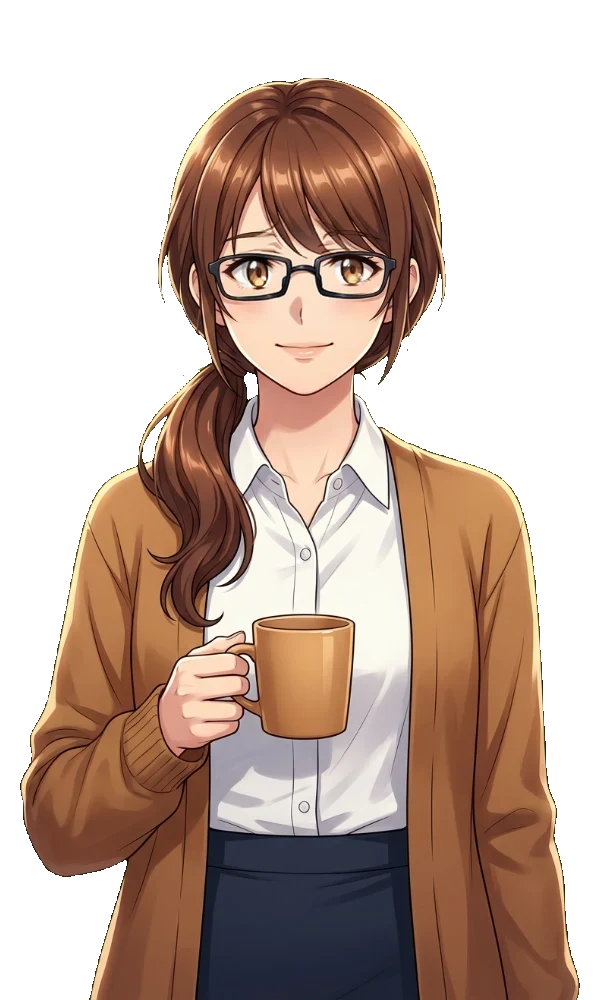
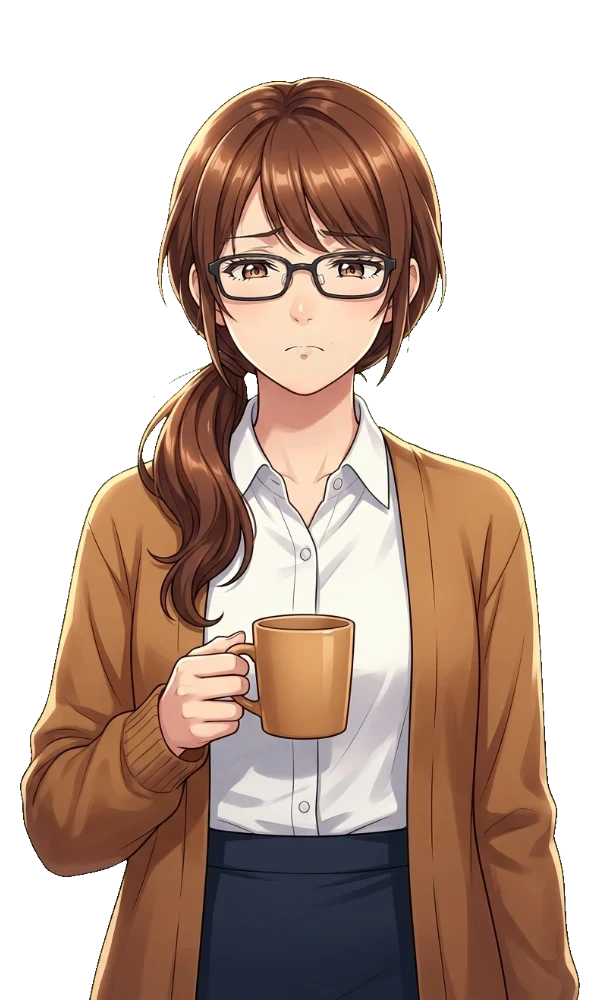
重繪索老師 sad 與 think 表情立繪並補齊製作紀錄

Changed region(s): [[0.36, 0.217, 0.66, 0.372]]

diff --git a/docs/art-requests.md b/docs/art-requests.md
@@ -331,8 +331,8 @@ Image edit. Keep the character IDENTICAL to the reference image: same pose, same
 | Key（manifest） | 輸出檔 | 來源圖建議檔名 | 尺寸 | 劇本 say/show 次數 |
 |---|---|---|---|---|
 | `sensei/smile` 微笑 | `public/art/sensei/smile.webp` | `sensei-smile.png` | 600×1000 RGBA（來源 2:3，建議 1024×1536） | 17 |
-| `sensei/think` 思考（⚠ 待重繪，見 §8） | `public/art/sensei/think.webp` | `sensei-think.png` | 600×1000 RGBA（來源 2:3，建議 1024×1536） | 4 |
-| `sensei/sad` 難過（⚠ 待重繪，見 §8） | `public/art/sensei/sad.webp` | `sensei-sad.png` | 600×1000 RGBA（來源 2:3，建議 1024×1536） | 3 |
+| `sensei/think` 思考（✅ 2026-11-28 重繪完成，見 §8.1） | `public/art/sensei/think.webp` | `sensei-think.png` | 600×1000 RGBA（來源 2:3，建議 1024×1536） | 4 |
+| `sensei/sad` 難過（✅ 2026-11-28 重繪完成，見 §8.1） | `public/art/sensei/sad.webp` | `sensei-sad.png` | 600×1000 RGBA（來源 2:3，建議 1024×1536） | 3 |
 
 **`sensei/smile`（微笑）提示詞**
 
@@ -951,7 +951,7 @@ a promotional key visual for a Japanese school romance simulation game, three hi
 ### 8.1 2026-11-28：索 千尋 老師（`sensei/sad`、`sensei/think`）表情區辨度重繪
 
 - **日期**：2026-11-28
-- **狀態**：⏸ **待人工出圖**（本次自動產圖因影像生成模型配額用盡 `HTTP 429 RESOURCE_EXHAUSTED` 而無法產圖，依約定不覆蓋原檔、不以程式拼貼替代，先補齊人工出圖提示詞與驗收檢查表）。
+- **狀態**：✅ **已完成**（2026-11-28 以 Google Colab L4 GPU + SDXL 局部臉部 inpainting 重新產出 `sensei/sad.webp` 與 `sensei/think.webp`，已通過並排審查、`art:check`、`typecheck` 與單元測試；下方保留原始人工出圖提示詞供後續參考）。
 - **重繪原因**：
   - 既有 `public/art/sensei/` 的 `normal`、`smile`、`think`、`sad` 四張表情幾乎共用同一張微笑嘴型，並排檢視時難以一眼區分。
   - `sensei/sad.webp`：僅眉毛略為上挑，嘴角仍明顯上揚微笑，導致壞結局（`end-bad`：「抱歉啊，{name}。是我這個顧問，沒有撐到最後。」）與黑帽結局（`end-blackhat`）出場時呈現「笑著道歉」的違和感。舊版提示詞誤寫了 `a faint sorry smile fading`，是造成微笑殘留的主因。
@@ -1050,12 +1050,25 @@ smiling, smirk, upturned mouth corners, happy expression, cheerful face, looking
 
    檢視 `/tmp/art-review/sprites-sensei.png`（由左至右為 `normal`、`smile`、`think`、`sad`）。
 
-#### 人工重繪驗收檢查表
+#### 重繪驗收檢查表
 
-- [ ] **四表情一眼可分**：並排檢視 `normal`／`smile`／`think`／`sad` 時，縮成小圖也能立刻辨識情緒差異。
-- [ ] **`sad` 嘴角不微笑**：眉尾下垂、視線略向下、嘴角平或明顯下垂（絕無微笑弧度），放進壞結局「抱歉啊，是我這個顧問，沒有撐到最後」不違和。
-- [ ] **`think` 視線與嘴型到位**：視線明確偏向一側、眉頭微收不顯兇、嘴型平直不微笑，與 `normal` 差異清楚。
-- [ ] **角色特徵與畫風一致**：維持棕色低馬尾、黑框長方眼鏡、白襯衫、棕黃開襟毛衣、深藍裙、陶製咖啡馬克杯、成年女性氣質，且柔和賽璐璐上色與 `rin`／`mirai` 等立繪一致。
-- [ ] **對位零跳動**：與 `sensei/normal.webp` 50% 疊圖時頭、肩、髮際線重合；`npm run art:check` 顯示 `0 broken` 且 `sensei/sad`、`sensei/think` **無** `WARN: crop differs from normal by up to ...px`。
-- [ ] **去背乾淨**：灰底與深色底檢視皆無白邊、無殘留綠點或綠色溢色，檔案為 `600×1000` 透明 WebP（單張約 50～100KB）。
-- [ ] **回歸檢查通過**：`npm run art:check && npm run typecheck && npm test` 全數通過。
+- [x] **四表情一眼可分**：並排檢視 `normal`／`smile`／`think`／`sad` 時，縮成小圖也能立刻辨識情緒差異。
+- [x] **`sad` 嘴角不微笑**：眉尾下垂、視線略向下、嘴角平或明顯下垂（絕無微笑弧度），放進壞結局「抱歉啊，是我這個顧問，沒有撐到最後」不違和。
+- [x] **`think` 視線與嘴型到位**：視線明確偏向一側、眉頭微收不顯兇、嘴型平直不微笑，與 `normal` 差異清楚。
+- [x] **角色特徵與畫風一致**：維持棕色低馬尾、黑框長方眼鏡、白襯衫、棕黃開襟毛衣、深藍裙、陶製咖啡馬克杯、成年女性氣質，且柔和賽璐璐上色與 `rin`／`mirai` 等立繪一致。
+- [x] **對位零跳動**：與 `sensei/normal.webp` 疊圖時頭、肩、眼鏡框、髮際線逐像素重合；`npm run art:check` 顯示 `71/71 assets done, 0 broken` 且 `sensei/sad`、`sensei/think` 外框與 `normal` 完全一致 `(20,77,579,999)`（0px 偏移）。
+- [x] **去背乾淨**：灰底與深色底檢視皆無白邊、無殘留綠點或綠色溢色，檔案為 `600×1000` 透明 WebP（`sad.webp` 62.7 KB、`think.webp` 63.0 KB）。
+- [x] **回歸檢查通過**：`npm run art:check && npm run typecheck && npm test` 全數通過。
+
+#### 完成紀錄（2026-11-28）
+
+- **完成日期**：2026-11-28
+- **執行環境與模型**：Google Colab L4 GPU（24 GB VRAM），`diffusers 0.42.1` `AutoPipelineForInpainting`（`StableDiffusionXLInpaintPipeline`）載入 `cagliostrolab/animagine-xl-4.0`（fp16）＋ `EulerAncestralDiscreteScheduler`。
+- **生成與合成流程**：
+  1. 以現行 `public/art/sensei/normal.webp` 為唯一母圖，保留原始 alpha 並鋪上中性灰 `(128,128,128)` 底色，裁切臉部方形區塊 `(120, 60, 480, 420)`（360×360）並以 Lanczos 放大至 `1024×1024`。
+  2. 製作羽化局部遮罩 `mask_targeted_v2`（僅覆蓋雙眉、黑框眼鏡內側眼部與嘴部，高斯羽化半徑 3.5px，完全避開鼻底、黑框眼鏡框線、瀏海外輪廓與下顎線），確保眼鏡與臉型逐像素鎖定。
+  3. 共分三批產出 44 張候選圖（`sad` 20 張、`think` 24 張），下載後縮回 360×360 並以羽化遮罩貼回 `normal` 原圖、套回原始 alpha，並排放大審查挑選最佳結果。
+  4. 透過 `node scripts/process-art.mjs` 轉為 600×1000 透明 WebP（品質 0.88）覆蓋 `public/art/sensei/sad.webp` 與 `public/art/sensei/think.webp`。
+- **最終採用參數與 Seed**：
+  - `public/art/sensei/sad.webp`：`seed = 304`、`strength = 0.76`、`guidance_scale = 6.5`、`num_inference_steps = 30`、`mask = targeted_v2`（Batch 2）；正向提示詞強調 `thin brown eyebrows, sad, apologetic, worried eyebrows, furrowed brows, downcast eyes, looking down, frown, downturned mouth, closed sad mouth`，負向提示詞排除 `smile, smiling, smirk, happy, upturned mouth, open mouth, teeth, thick eyebrows, crying, streaming tears, angry, extra glasses, deformed eyes`。
+  - `public/art/sensei/think.webp`：`seed = 503`、`strength = 0.78`、`guidance_scale = 6.5`、`num_inference_steps = 30`、`mask = targeted_v2`（Batch 3）；正向提示詞強調 `thin brown eyebrows, thinking, contemplative, looking to the side, glancing right, slightly furrowed eyebrows, calm focused eyes, straight closed mouth, flat neutral mouth`，負向提示詞排除 `smile, smiling, smirk, happy, upturned mouth, looking at viewer, open mouth, teeth, pursed lips, puckered lips, tiny mouth, thick eyebrows, sad, crying, angry, extra glasses, deformed eyes`。
